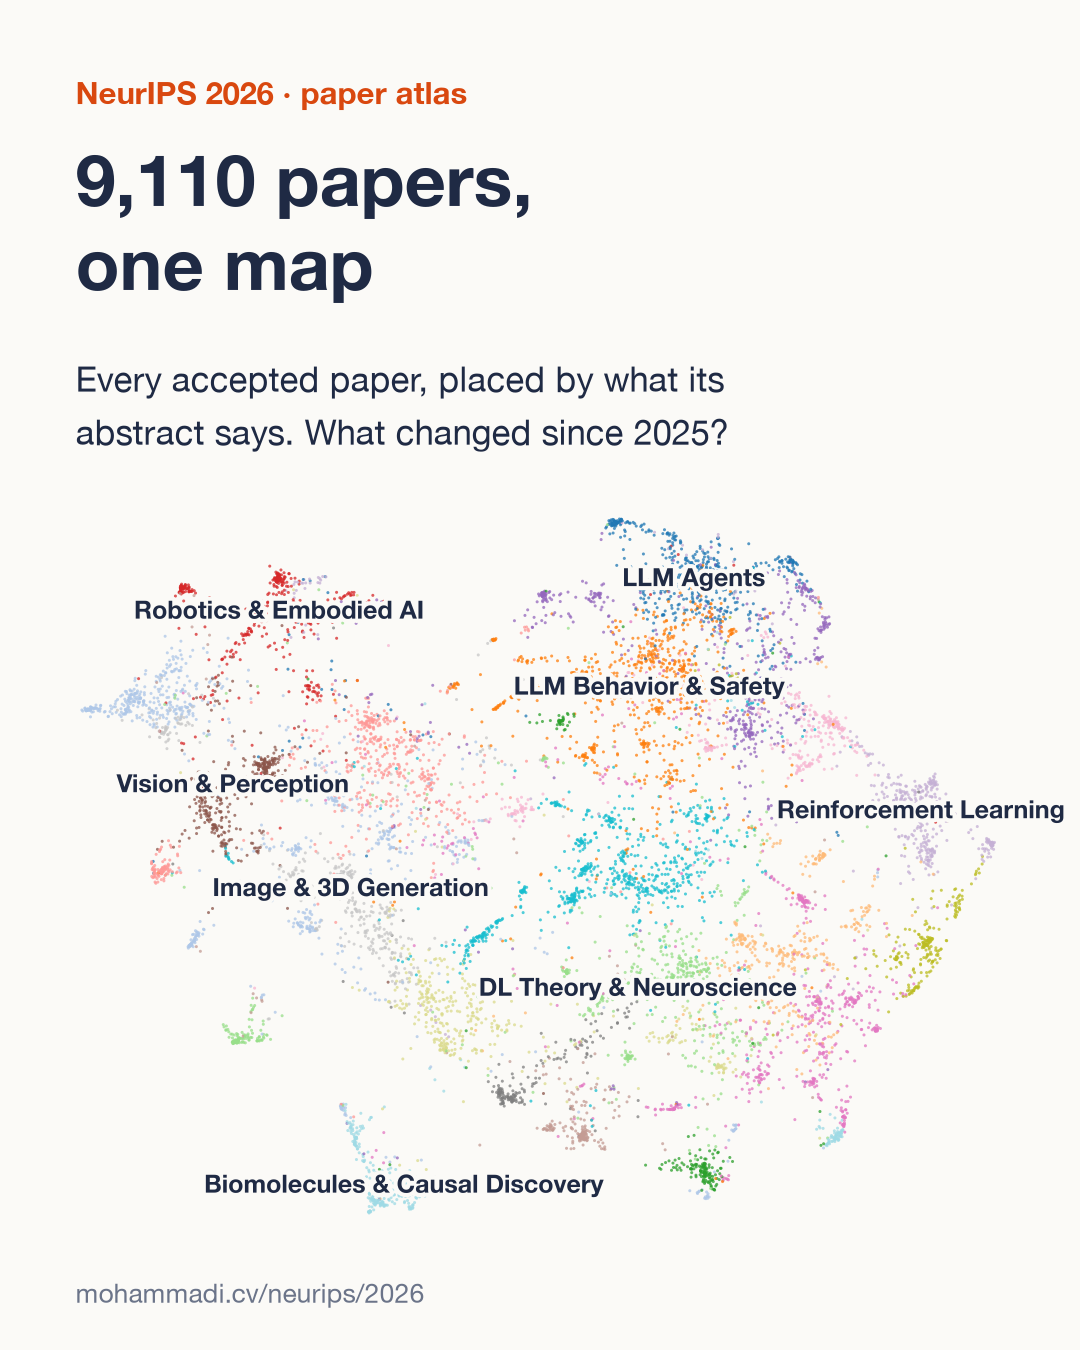
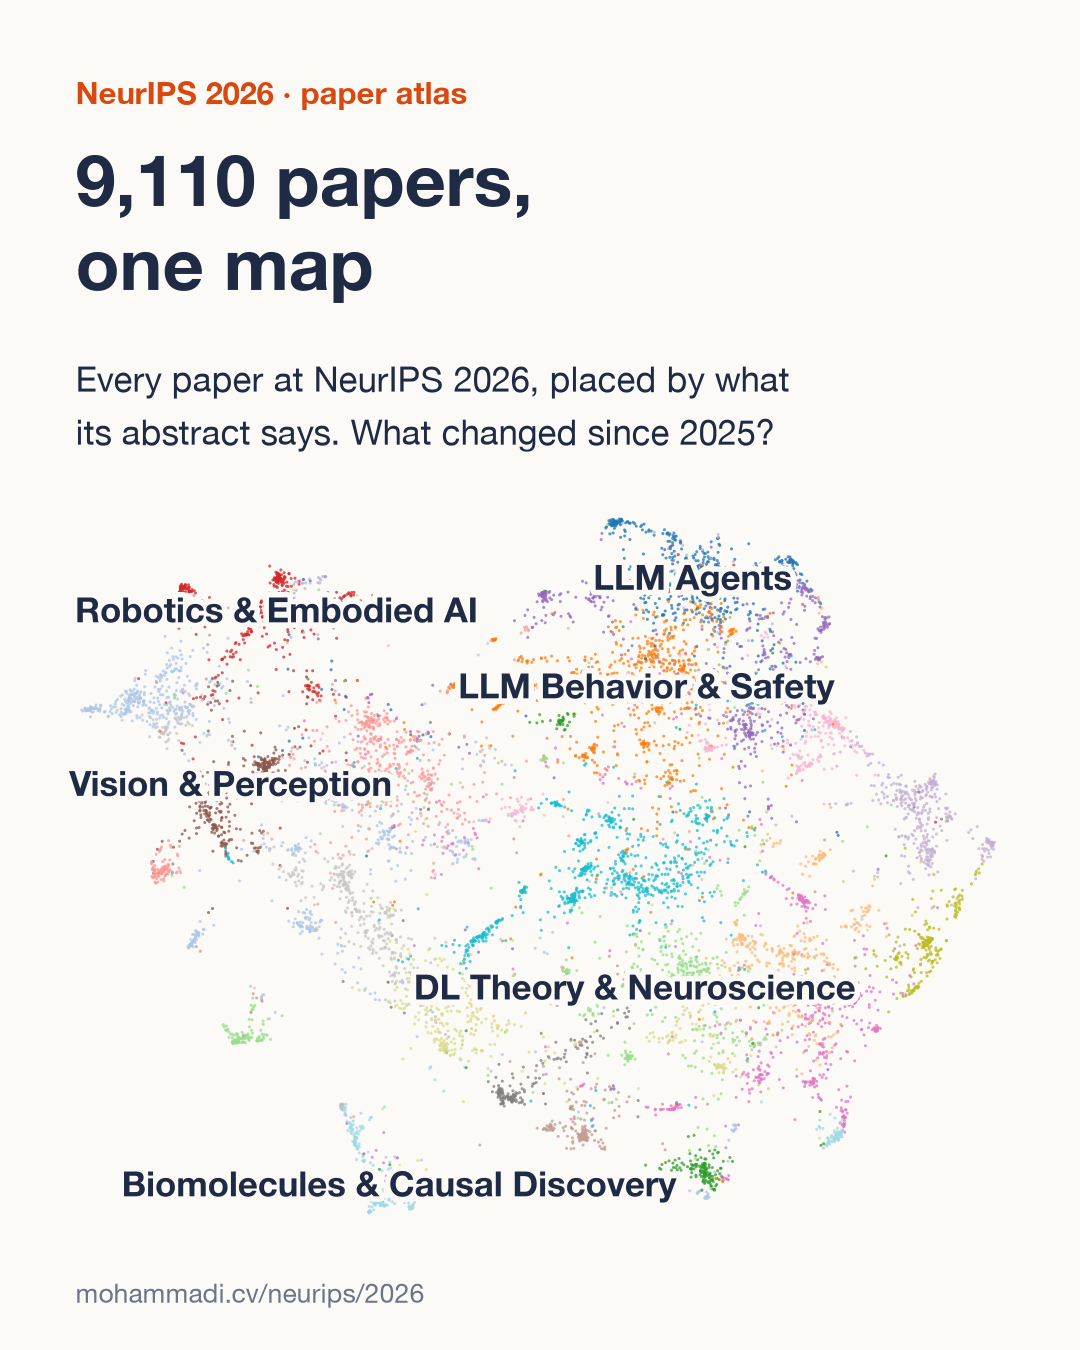
Make six social cards instead of four
Adds a card with four more numbers and one for the three cities, uses
short agent topic names so the labels stay readable on a phone, and puts
the site address in large type on the last card.

diff --git a/src/10_story_figures.py b/src/10_story_figures.py
@@ -131,7 +131,7 @@ agent_title = (f"Agent papers went from {n25} to {n26}"
                + (". Every agent topic grew faster than the conference." if all_faster else ""))
 
 
-def draw_agents(ax, fs=10.5, lab_fs=9.5):
+def draw_agents(ax, fs=10.5, lab_fs=9.5, short=None):
     yy = np.arange(len(fam))[::-1]
     ax.hlines(yy, c25, c26, color=ACC, lw=3, alpha=0.5)
     ax.scatter(c25, yy, s=60, color=GREY, zorder=3, label="2025")
@@ -139,7 +139,7 @@ def draw_agents(ax, fs=10.5, lab_fs=9.5):
     for y_, a_, b_ in zip(yy, c25, c26):
         ax.annotate(f"{a_} → {b_}", (b_, y_), xytext=(8, 0), textcoords="offset points", va="center",
                     fontsize=lab_fs, color=INK)
-    ax.set_yticks(yy, [fine_name[f] for f in fam], fontsize=fs)
+    ax.set_yticks(yy, [(short or {}).get(fine_name[f], fine_name[f]) for f in fam], fontsize=fs)
     ax.set_xlim(0, c26.max() * 1.22)
     ax.tick_params(axis="x", labelsize=fs - 1)
     ax.set_xlabel("papers", fontsize=fs - 1)
@@ -322,7 +322,8 @@ def card(name, kicker, big, line, draw, box=(0.06, 0.1, 0.88, 0.52)):
     bottom = t.get_window_extent().transformed(fig.transFigure.inverted()).y0
     fig.text(0.07, bottom - 0.025, line, fontsize=12.5, color=INK, va="top", linespacing=1.3)
     draw(fig, box)
-    fig.text(0.07, 0.035, URL, fontsize=9.5, color=MUTED)
+    if not name.startswith("6_"):  # the last slide shows the address large instead
+        fig.text(0.07, 0.035, URL, fontsize=9.5, color=MUTED)
     with plt.rc_context({"savefig.bbox": "standard"}):
         fig.savefig(CAR / name, dpi=200, facecolor=BG)
     plt.close(fig)
@@ -336,42 +337,100 @@ def draw_img(path):
 
 def draw_field_card(fig, box):
     ax = fig.add_axes(box)
-    keep = {"LLM Agents", "LLM Post-Training", "Robotics & Embodied AI", "Vision & Perception", "Graph Learning & Recommendation",
-            "Diffusion, Flows & Inference", "Image & 3D Generation"}
-    draw_field(ax, keep=keep, fs=9.5, scatter=False)
-    field_colorbar(fig, [box[0] + 0.12, box[1] - 0.025, box[2] - 0.24, 0.012], fs=8.5)
+    keep = {"LLM Agents", "Robotics & Embodied AI", "Vision & Perception", "Graph Learning & Recommendation",
+            "Diffusion, Flows & Inference"}
+    draw_field(ax, keep=keep, fs=13, scatter=False)
+    field_colorbar(fig, [box[0] + 0.1, box[1] - 0.03, box[2] - 0.2, 0.014], fs=11)
 
 
 def draw_atlas_card(fig, box):
     ax = fig.add_axes(box)
     pal = plt.get_cmap("tab20")
     ax.scatter(d26.x, d26.y, s=1.2, c=[pal(int(b) % 20) for b in d26.broad], alpha=0.75, linewidths=0)
-    keep = {"LLM Agents", "LLM Behavior & Safety", "Robotics & Embodied AI", "Vision & Perception",
-            "Reinforcement Learning", "DL Theory & Neuroscience", "Biomolecules & Causal Discovery", "Image & 3D Generation"}
-    pos = spread_labels(med.loc[[b for b in med.index if broad_name[b] in keep]], dx=2.6, dy=0.55)
+    keep = {"LLM Agents", "Robotics & Embodied AI", "Vision & Perception", "LLM Behavior & Safety",
+            "DL Theory & Neuroscience", "Biomolecules & Causal Discovery"}
+    pos = spread_labels(med.loc[[b for b in med.index if broad_name[b] in keep]], dx=3.4, dy=0.8)
     for b, r in pos.iterrows():
-        outline(ax.text(r.x, r.y, broad_name[b], ha="center", va="center", fontsize=9, color=INK, fontweight="bold"), 3)
+        outline(ax.text(r.x, r.y, broad_name[b], ha="center", va="center", fontsize=12.5, color=INK, fontweight="bold"), 4)
     ax.set_xlim(ext[:2]); ax.set_ylim(ext[2:]); ax.axis("off")
 
 
+AGENT_SHORT = {
+    "Tool-Use, Web and GUI Agent Benchmarks": "Agent benchmarks", "LLM Agent Reliability and Efficiency": "Reliability",
+    "LLM Agent Safety and Security": "Safety & security", "LLM Multi-Agent Systems": "Multi-agent systems",
+    "Long-Term Memory for LLM Agents": "Memory", "Self-Evolving Agents and Skill Learning": "Skill learning",
+    "Coding Agents and SWE Benchmarks": "Coding agents", "Multi-Turn LLM Dialogue and Agent RL": "Agent RL & dialogue",
+    "Multimodal Agents and Reasoning Benchmarks": "Multimodal agents"}
+
+
 def draw_agents_card(fig, box):
-    ax = fig.add_axes([box[0] + 0.47, box[1], box[2] - 0.5, box[3]])
-    draw_agents(ax, fs=8, lab_fs=8)
+    ax = fig.add_axes([box[0] + 0.33, box[1], box[2] - 0.36, box[3]])
+    draw_agents(ax, fs=12.5, lab_fs=11.5, short=AGENT_SHORT)
     ax.get_legend().remove()
+    ax.set_xlabel("papers (grey 2025, orange 2026)", fontsize=11)
 
 
 ag = next(x for x in S["broad"] if "Agent" in x["topic"])
 card("1_cover.png", "NeurIPS 2026 · paper atlas", "9,110 papers,\none map",
-     "Every accepted paper, placed by what its\nabstract says. What changed since 2025?",
+     "Every paper at NeurIPS 2026, placed by what\nits abstract says. What changed since 2025?",
      draw_atlas_card, (0.03, 0.07, 0.94, 0.58))
 card("2_agents.png", "Biggest shift", f"LLM agents:\n{ag['share_2025']:.1f}% → {ag['share_2026']:.1f}%",
      f"{n25} → {n26} papers. {k_agents} of the 10 subtopics that\ngained the most share are about agents.",
-     draw_agents_card, (0.05, 0.1, 0.9, 0.5))
+     draw_agents_card, (0.05, 0.14, 0.9, 0.47))
 card("3_moved.png", "Where the field moved", "Red grew,\nblue shrank",
      "The 2026 map, coloured by how each\nsubtopic's share changed since 2025.",
      draw_field_card, (0.02, 0.12, 0.96, 0.5))
-card("4_explore.png", "Explore it yourself", "Search all\n9,110 papers",
-     "Colour it by change, city or status,\nand click any paper. Link in the first comment.",
-     draw_img(FIG / "atlas_screenshot.png") if (FIG / "atlas_screenshot.png").exists() else draw_img(FIG / "atlas_card.png"),
-     (0.03, 0.08, 0.94, 0.56))
+
+
+def draw_cities_card(fig, box):
+    ax = fig.add_axes([box[0] + 0.33, box[1], box[2] - 0.36, box[3]])
+    pick = lean.loc[list(lean.index[-4:]) + list(lean.index[:4])].iloc[::-1]
+    short = {"Video Generation & Understanding": "Video", "Image & 3D Generation": "Image & 3D gen.",
+             "Robotics & Embodied AI": "Robotics", "Vision & Perception": "Vision",
+             "Bandits, Games & Mechanisms": "Bandits & games", "Trustworthy & Statistical ML": "Trustworthy ML",
+             "Diffusion, Flows & Inference": "Diffusion & flows", "Optimization & Statistics": "Optimization"}
+    yy = np.arange(len(pick))
+    ax.axvline(0, color="#9aa3b5", lw=1)
+    for i_ in yy:
+        ax.hlines(i_, pick.iloc[i_].min(), pick.iloc[i_].max(), color="#d5d9e2", lw=1.5, zorder=1)
+    for c in ["Sydney", "Atlanta", "Paris"]:
+        ax.scatter(pick[c], yy, s=70, color=CITY[c], label=c, zorder=3, edgecolor=BG, linewidths=0.8)
+    ax.set_yticks(yy, [short.get(n, n) for n in pick.index], fontsize=12.5)
+    ax.tick_params(axis="x", labelsize=10.5)
+    ax.set_xlabel("points above or below the city's overall share", fontsize=10.5)
+    ax.legend(frameon=False, fontsize=11.5, ncol=3, loc="lower center", bbox_to_anchor=(0.35, 1.0), handletextpad=0.2, columnspacing=1)
+
+
+def draw_numbers_card(fig, box):
+    voc = {r["term"]: r for r in S["vocabulary"]}
+    gnn = fine.loc["Graph Neural Networks"]
+    c26_ = {c: p_ for c, _, p_ in S["countries_2026"]}; c25_ = {c: p_ for c, _, p_ in S["countries_2025"]}
+    solo = (int(round(S["single_author_pct"]["2025"] * S["n_2025"] / 100)), int(round(S["single_author_pct"]["2026"] * S["n_2026"] / 100)))
+    cells = [
+        (f"{voc['benchmark']['pct_2026']:.0f}%", f"of papers mention a benchmark\n(was {voc['benchmark']['pct_2025']:.0f}% in 2025)"),
+        (f"{gnn.share_2025:.1f}% → {gnn.share_2026:.1f}%", "graph neural networks,\nshare of all papers"),
+        (f"{solo[0]} → {solo[1]}", "papers with a single author"),
+        (f"US {c26_['USA']:.0f}%\nChina {c26_['China']:.0f}%", f"papers with an author from each\n(China was {c25_['China']:.0f}% in 2025)"),
+    ]
+    for k, (big, small) in enumerate(cells):
+        x = 0.07 + (k % 2) * 0.46
+        y = box[1] + box[3] - 0.02 - (k // 2) * 0.27
+        fig.text(x, y, big, fontsize=24, fontweight="bold", color=ACC if k < 2 else INK, va="top", linespacing=1.05)
+        fig.text(x, y - (0.125 if "\n" in big else 0.065), small, fontsize=11.5, color=MUTED, va="top", linespacing=1.3)
+
+
+card("4_numbers.png", "What else changed", "Benchmarks up,\ngraphs down",
+     "Four more numbers from the comparison\nwith NeurIPS 2025.", draw_numbers_card, (0.05, 0.1, 0.9, 0.55))
+card("5_cities.png", "Three cities", f"{avg['Sydney']:.0f}% Sydney\n{avg['Atlanta']:.0f}% Atlanta, {avg['Paris']:.0f}% Paris",
+     "Vision and robotics went to Sydney.\nStatistics, bandits and diffusion lean to Paris.", draw_cities_card, (0.05, 0.14, 0.9, 0.44))
+
+
+def draw_explore_card(fig, box):
+    draw_img(FIG / "atlas_screenshot.png")(fig, box)
+    fig.text(0.5, 0.085, "mohammadi.cv/neurips/2026", fontsize=19, fontweight="bold", color=ACC, ha="center")
+
+
+card("6_explore.png", "Explore it yourself", "Search all\n9,110 papers",
+     "Colour the map by change, city or status,\nand click any paper to read it.",
+     draw_explore_card, (0.06, 0.15, 0.88, 0.5))
 print("story figures and carousel written; agents in top-10 gainers:", k_agents)
